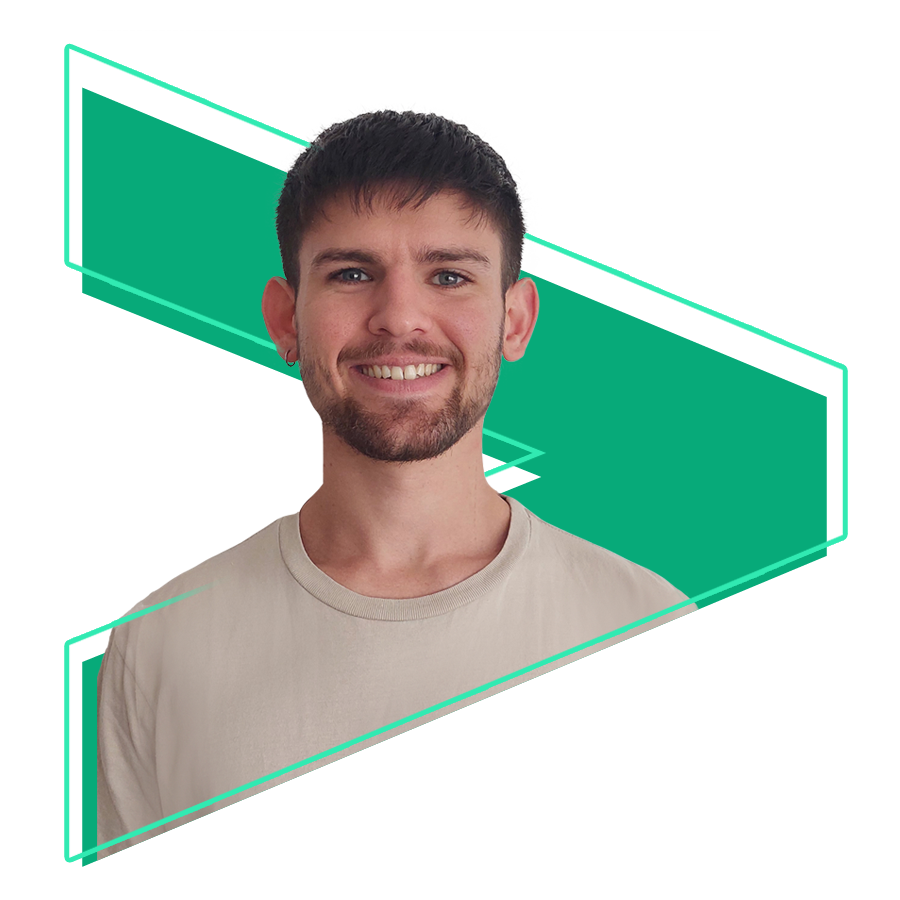
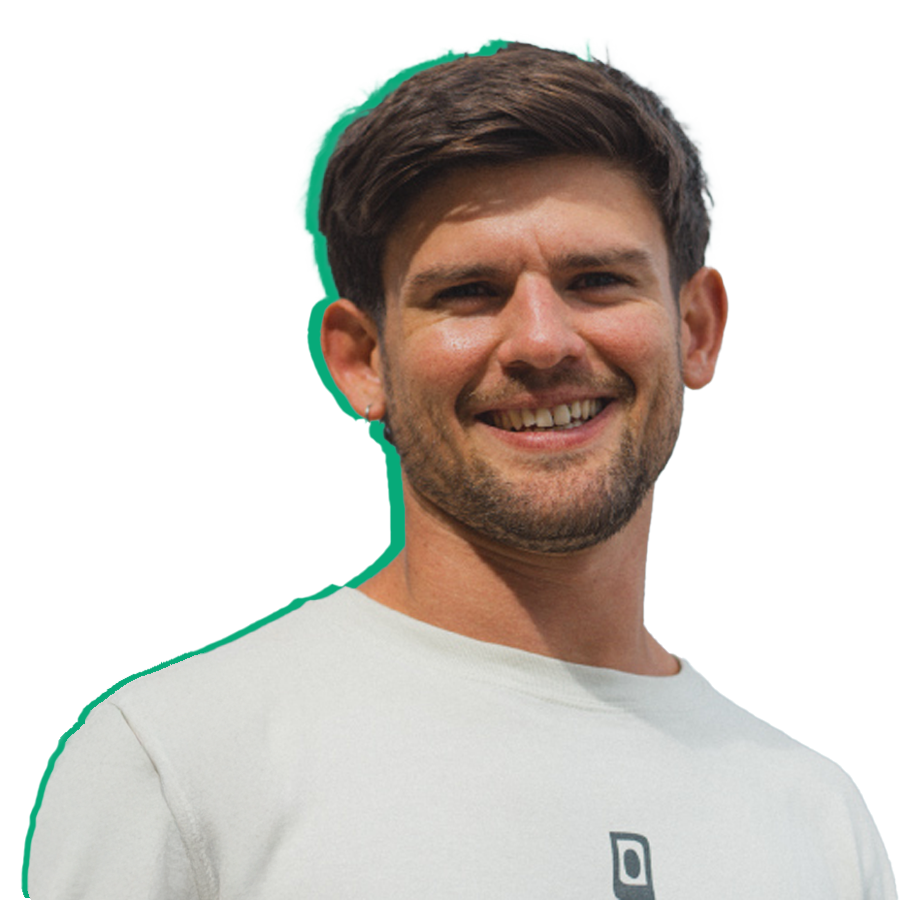
Updates

diff --git a/index.html b/index.html
@@ -1,1 +1,1 @@
-<!doctype html><html lang="en"><head><meta charset="utf-8"/><link rel="icon" href="code-icon-black.png"/><meta name="viewport" content="width=device-width,initial-scale=1"/><meta name="theme-color" content="#000000"/><meta name="description" content="Web site created using create-react-app"/><link rel="apple-touch-icon" href="code-icon-black.png"/><link rel="manifest" href="/manifest.json"/><title>Manuel Gosende | Portfolio</title><script defer="defer" src="/static/js/main.2c38c276.js"></script><link href="/static/css/main.9f9ca7f3.css" rel="stylesheet"></head><body><noscript>You need to enable JavaScript to run this app.</noscript><div id="root"></div></body></html>
+<!doctype html><html lang="en"><head><meta charset="utf-8"/><link rel="icon" href="code-icon-black.png"/><meta name="viewport" content="width=device-width,initial-scale=1"/><meta name="theme-color" content="#000000"/><meta name="description" content="Web site created using create-react-app"/><link rel="apple-touch-icon" href="code-icon-black.png"/><link rel="manifest" href="/manifest.json"/><title>Manuel Gosende | Portfolio</title><script defer="defer" src="/static/js/main.bf93337b.js"></script><link href="/static/css/main.9f9ca7f3.css" rel="stylesheet"></head><body><noscript>You need to enable JavaScript to run this app.</noscript><div id="root"></div></body></html>